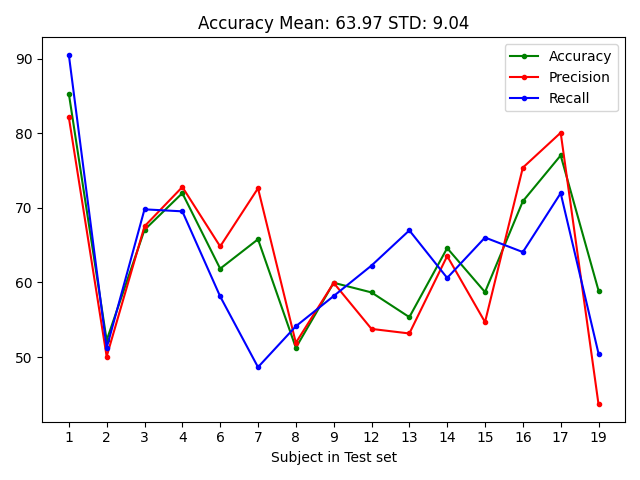
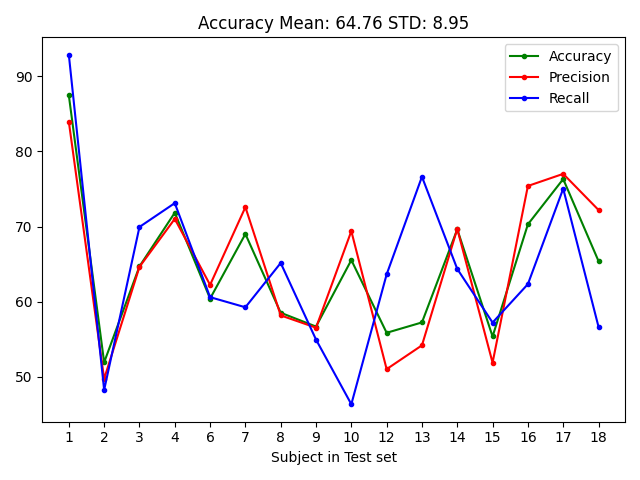
new subject list

diff --git a/utils/config.py b/utils/config.py
@@ -16,7 +16,7 @@ class Config:
           self.apply_valid_set = 'double'  # This defines to how many pieces we want to split the data ('all', 'double', 'single')
           self.realVSFake   = True
           self.data_path    = 'Img'    # Img vs Obs
-          self.downsample   = False
+          self.downsample   = True
           self.transform    = ""    # Specifies the transformation to be applied to the input (e.g., stockwell, stft)
 
           # Stockwell
@@ -37,8 +37,8 @@ class Config:
 
           # Each segement
           if self.downsample:
-             self.n_timepoints = 500
-             self.window_len   = 480
+             self.n_timepoints = 400
+             self.window_len   = 380
              self.window_inc   = 2
           else:
              self.n_timepoints = 2000
@@ -62,8 +62,9 @@ class Config:
     
           # Bad Subjects: [0,5,10,11,18]
           self.train_subjects  = []
-          self.all_subjects    = np.array([1,2,3,4,6,7,8,9,12,13,14,15,16,17,19])
-#          self.all_subjects    = np.array([1,3,4,6,8,9,12,13,14,15,16,17])
+#          self.all_subjects    = np.array([1,2,3,4,6,7,8,9,12,13,14,15,16,17,19])
+          self.all_subjects    = np.array([1,3,4,6,7,8,9,10,13,14,15,16,17,18])
+#          self.all_subjects    = np.array([1,9])
           self.valid_subjects  = []
           self.test_subjects   = []
           if self.realVSFake:

diff --git a/utils/utils.py b/utils/utils.py
@@ -168,7 +168,7 @@ def preprocess_signal(config, X):
     if config.downsample:
        XD = []
        for i in range(X.shape[1]):
-           XD.append(signal.decimate(X[:,i], q=4))
+           XD.append(signal.decimate(X[:,i], q=5))
        X = np.array(XD).T
     if config.preprocess_normalize:
        mean, std  = np.mean(X, axis=0), np.std(X, axis=0)
